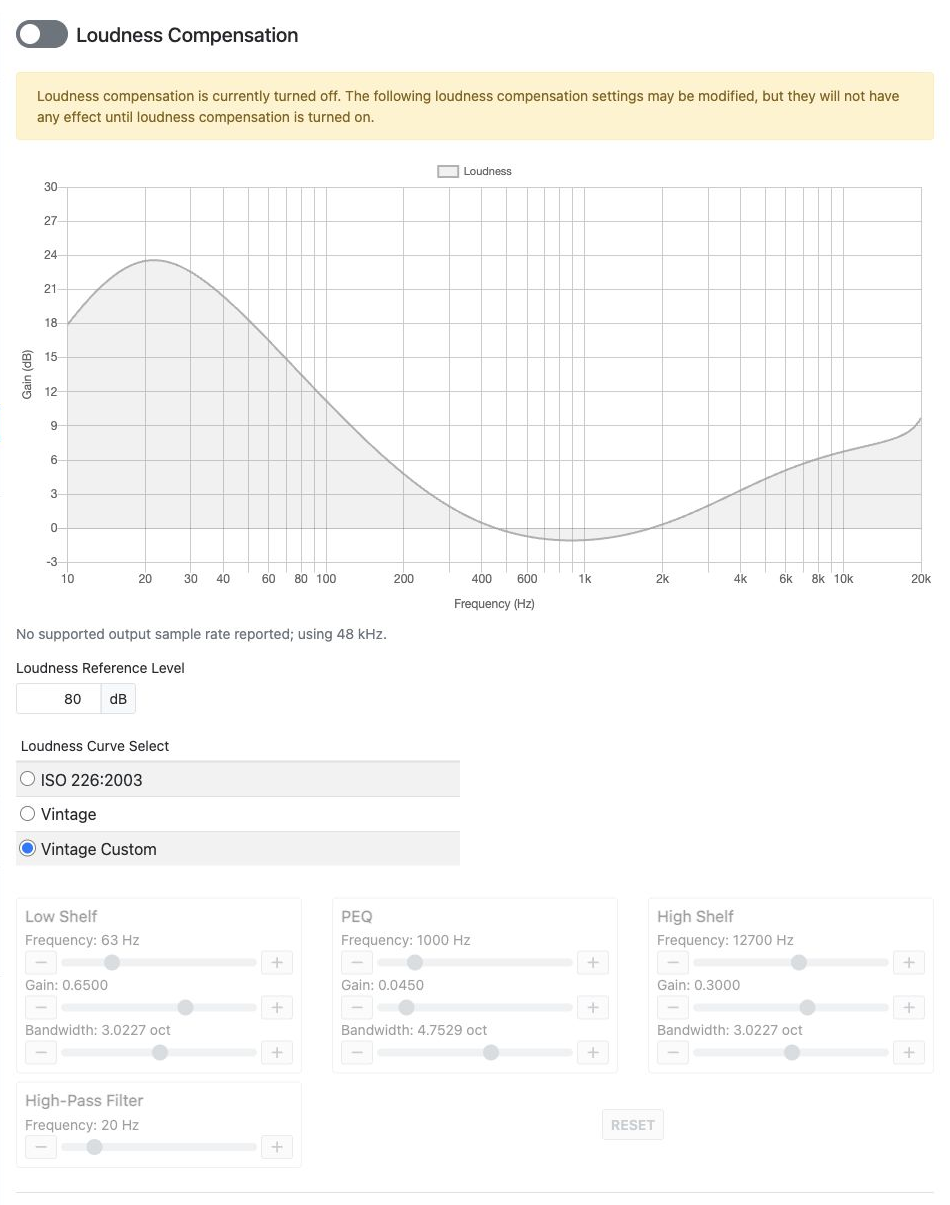
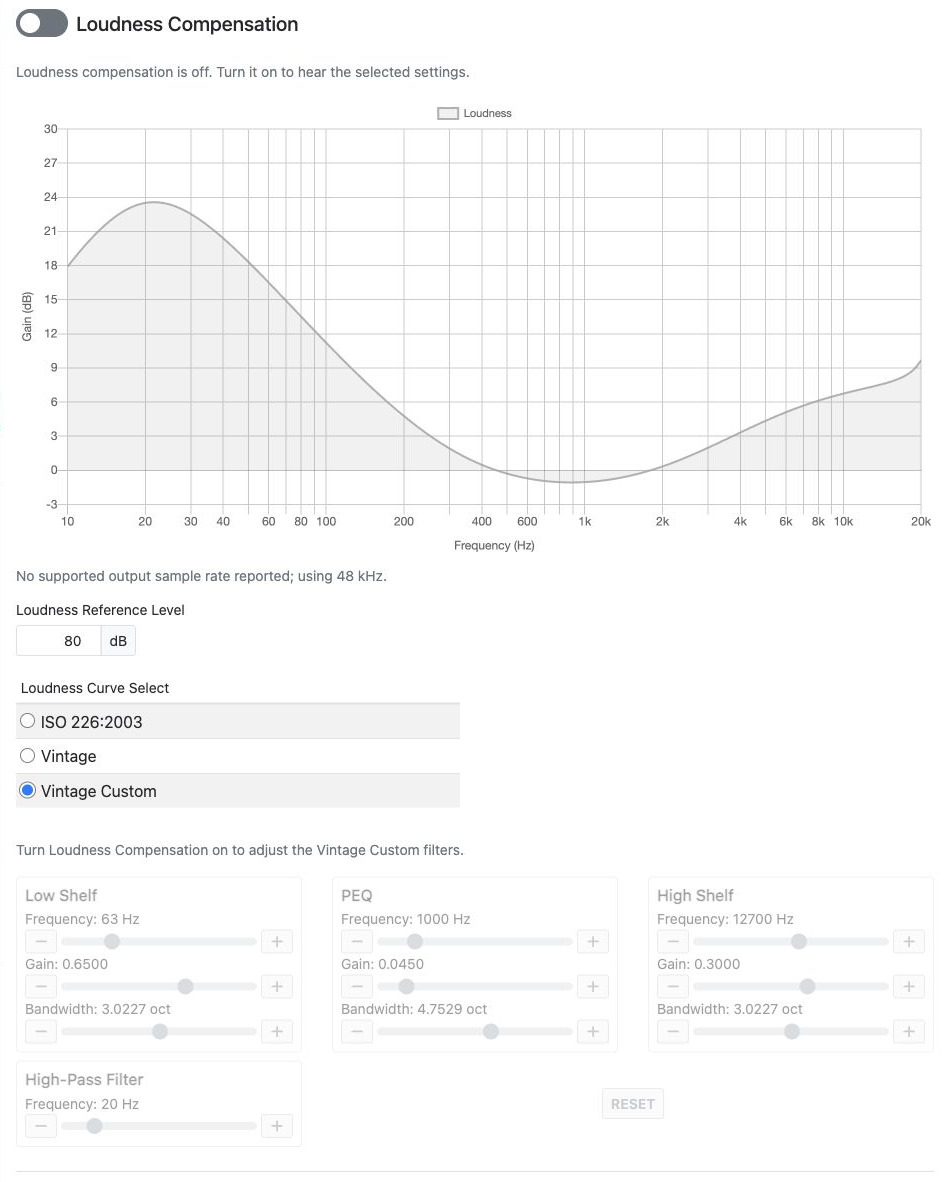
Clarify Loudness editing availability and refresh screenshots

diff --git a/docs/user-guide/loudness.md b/docs/user-guide/loudness.md
@@ -16,8 +16,9 @@ The chart follows the selected loudness curve, reference level, and current volu
 is enabled with a nonzero bass or treble adjustment, an additional curve shows its contribution:
 **Loudness + Tone** when Loudness is on, or **Tone** when Loudness is off.
 
-With Loudness off, the loudness curve remains visible in gray for reference; it is not being applied
-to the audio. A notice explains that loudness settings have no effect until Loudness is turned on.
+With Loudness off, the loudness curve remains visible in gray for reference and is not applied to
+the audio. Loudness Reference Level and Loudness Curve Select remain editable, but the Vintage
+Custom filter controls are disabled until Loudness is turned on.
 
 The loudness response uses the reported output sample rate. If no supported rate is reported, the
 chart explains that it is using 48 kHz. If a response cannot be fully displayed, check the filter
